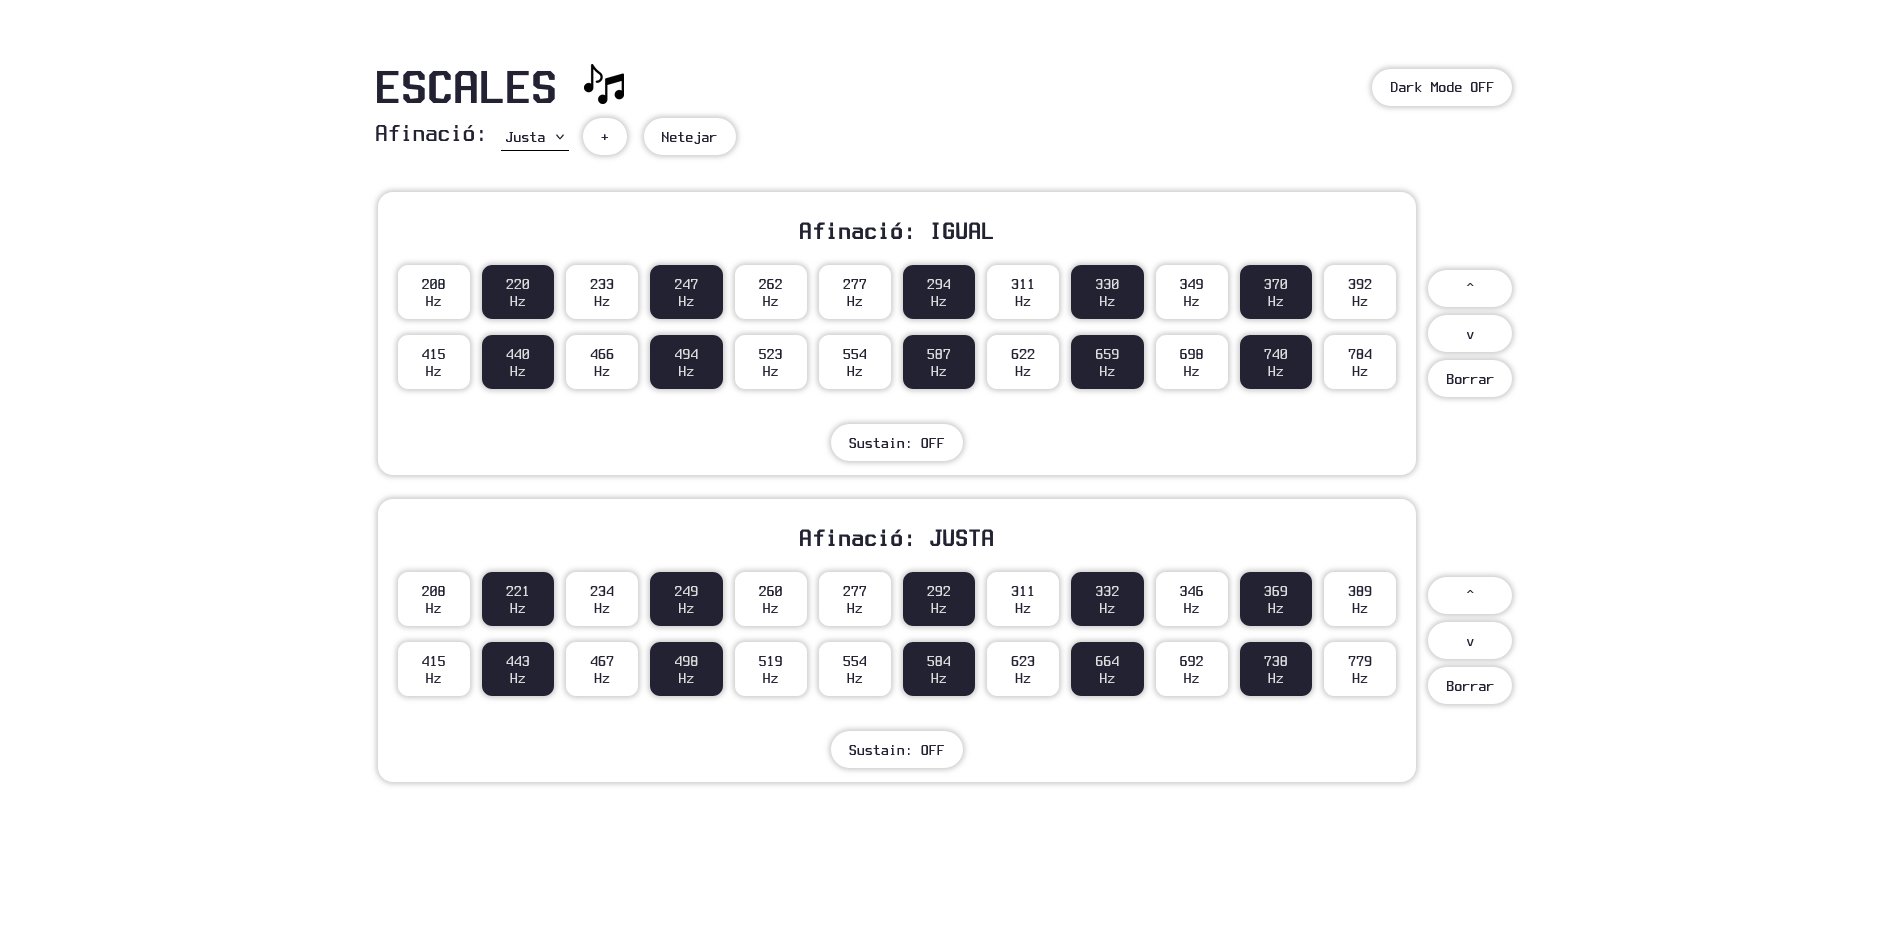
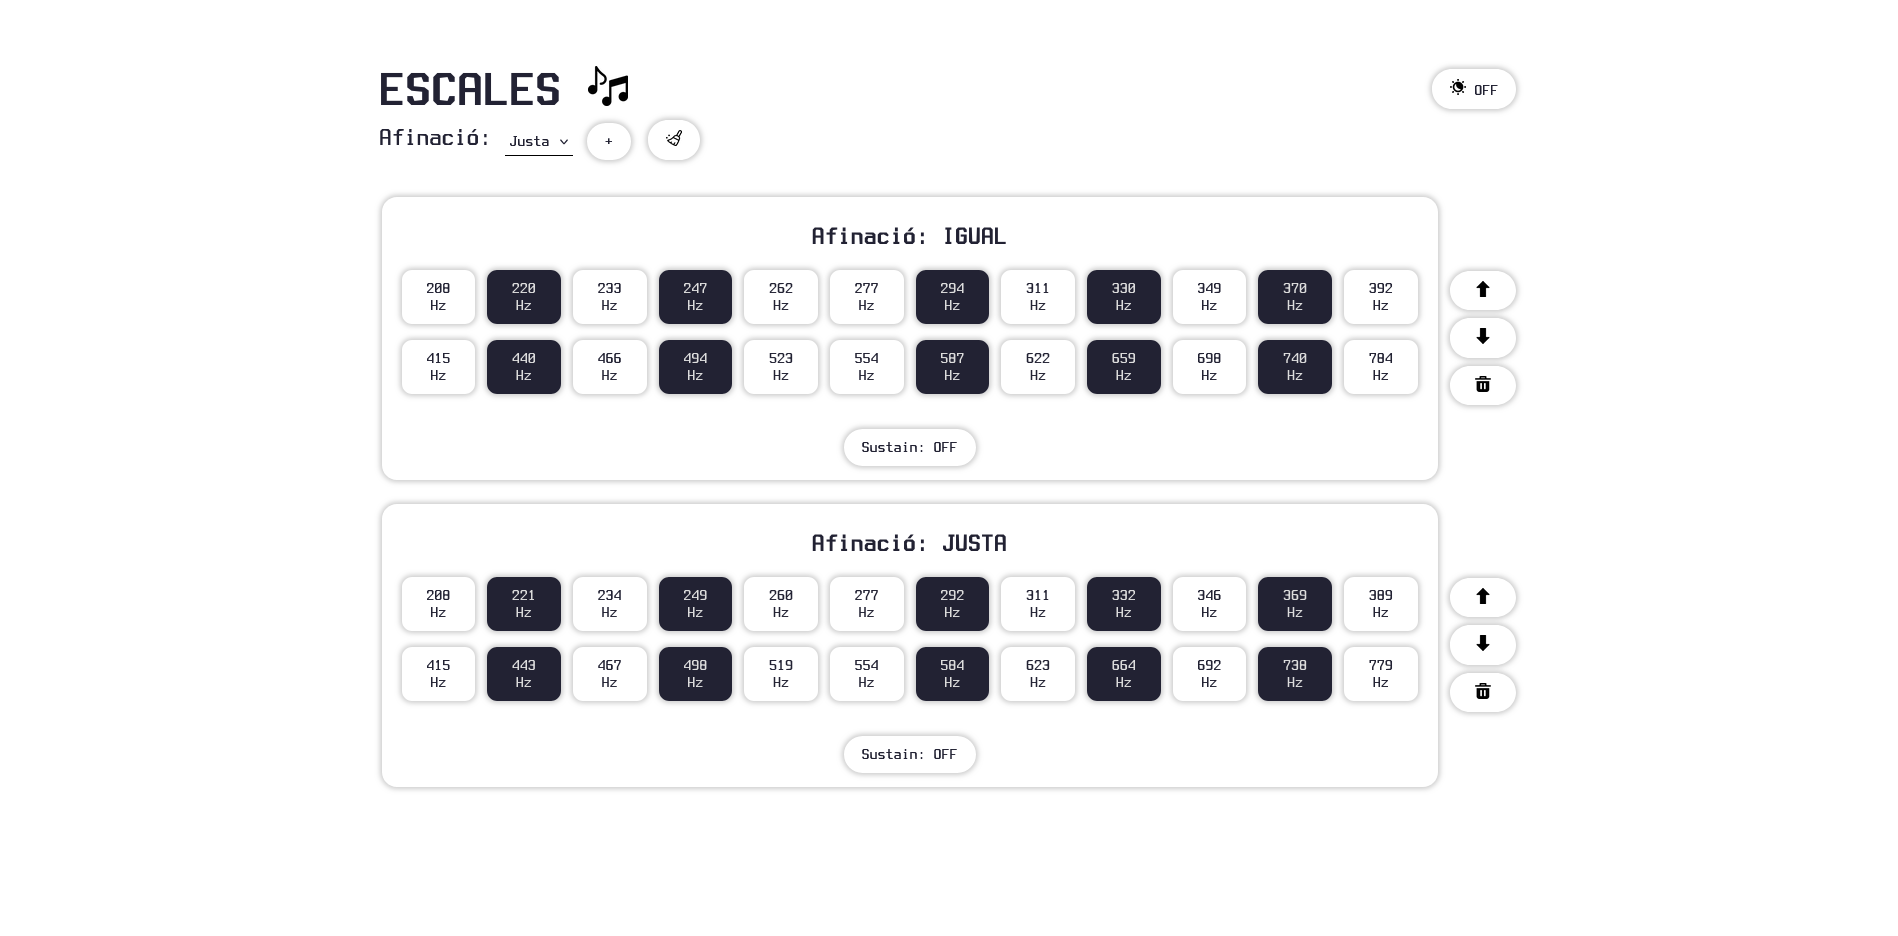
ss2

diff --git a/src/ui.js b/src/ui.js
@@ -12,7 +12,7 @@ const app = () => `
 
 <header id="header">
 	<h1>ESCALES <img class="icon" src="bin/icons/music-note.png"></h1>
-	<button id="b_dark_mode">Dark Mode ${dark_mode ? "ON" : "OFF"}</button>
+	<button id="b_dark_mode"><img class="icon-little" src="bin/icons/night-mode.png" /> ${dark_mode ? "ON" : "OFF"}</button>
 </header>
 
 <span>
@@ -22,7 +22,7 @@ const app = () => `
 		<option value="just">Justa</option>
 	</select>
 	<button id="b_add_scale">+</button>
-	<button id="b_remove" class="b_remove">Netejar</button>
+	<button id="b_remove" class="b_remove"><img class="icon-little" src="bin/icons/broom.png" /></button>
 </span>
 
 <br></br>
@@ -56,9 +56,9 @@ function app_init() {
 	let keyboards_body = [];
 	let keyboards_controller = `
 		<div class="controller">
-			<button class="b_up">^</button>
-			<button class="b_down">v</button>
-			<button class="b_del b_remove">Borrar</button>
+			<button class="b_up"><img class="icon-little" src="bin/icons/up_arrow.png" /></button>
+			<button class="b_down"><img class="icon-little" src="bin/icons/down_arrow.png" /></button>
+			<button class="b_del b_remove"><img class="icon-little" src="bin/icons/bin.png" /></button>
 		</div>
 	`;
 

diff --git a/src/style.css b/src/style.css
@@ -154,6 +154,11 @@ select:hover {
     height: 40px;
 }
 
+.icon-little {
+    width: 16px;
+    height: 16px;
+}
+
 #keys {
 	display: grid;
     grid-template-columns: 1fr 1fr 1fr 1fr 1fr 1fr 1fr 1fr 1fr 1fr 1fr 1fr;
